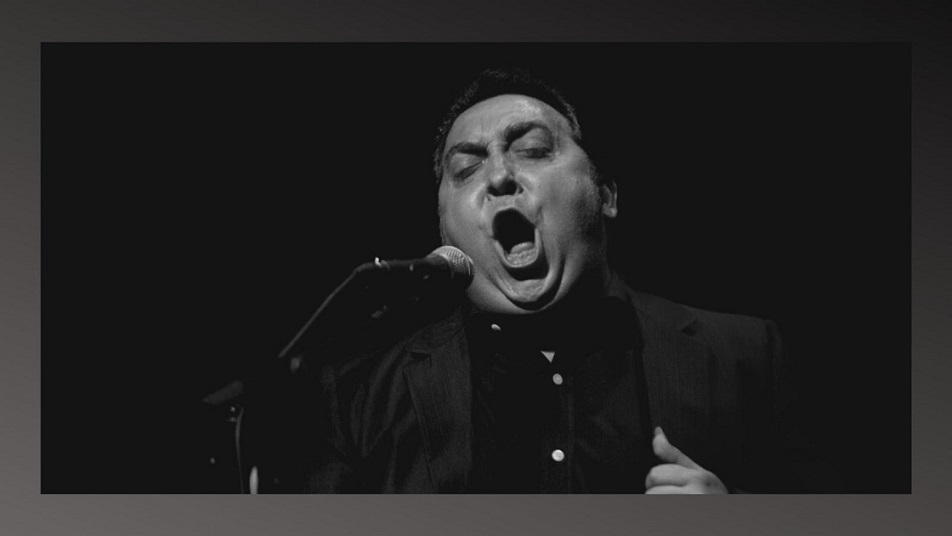
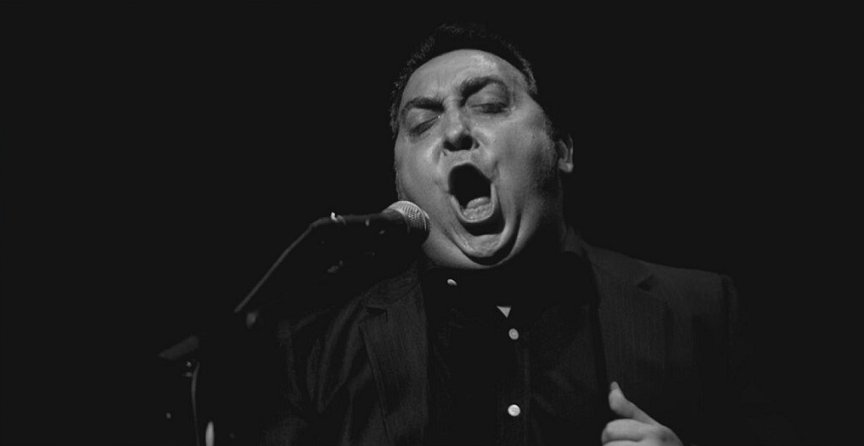
Recortar el marco gris integrado de la foto de ACF
El archivo acf-thumbnail.jpg traía un marco/vignette gris de ~42px
casi uniforme en los 4 lados (detectado por análisis de brillo píxel
a píxel), no una foto a sangre completa. El fix anterior (aspect-ratio
3:2 en la card) redujo el recorte pero no evitaba que ese marco
asomara de forma inconsistente en el borde. Ahora se recorta la foto
en origen a solo el contenido real (952x536 -> 864x446) y se
actualizan imgW/imgH. De paso corrijo el alt text: describía la web
de reservas, pero la imagen es una foto del cantaor en directo, no un
pantallazo de la web.

Verificado con dev server + Playwright (capturas) y build completo.

diff --git a/src/lib/translations.ts b/src/lib/translations.ts
@@ -225,10 +225,10 @@ const T: Record<Lang, Translations> = {
           url: "https://www.acffernandoterremoto.es",
           tags: ["Next.js", "Node.js", "PostgreSQL", "Dashboard admin"],
           img: "/images/acf-thumbnail.jpg",
-          imgW: 952,
-          imgH: 536,
+          imgW: 864,
+          imgH: 446,
           imgAlt:
-            "Web de reservas de entradas de la peña flamenca ACF Fernando Terremoto",
+            "Cantaor flamenco actuando en un espectáculo de ACF Fernando Terremoto",
           showCta: true,
         },
         {
@@ -479,9 +479,9 @@ const T: Record<Lang, Translations> = {
           url: "https://www.acffernandoterremoto.es",
           tags: ["Next.js", "Node.js", "PostgreSQL", "Admin dashboard"],
           img: "/images/acf-thumbnail.jpg",
-          imgW: 952,
-          imgH: 536,
-          imgAlt: "ACF Fernando Terremoto flamenco show booking website",
+          imgW: 864,
+          imgH: 446,
+          imgAlt: "Flamenco singer performing at an ACF Fernando Terremoto show",
           showCta: true,
         },
         {
